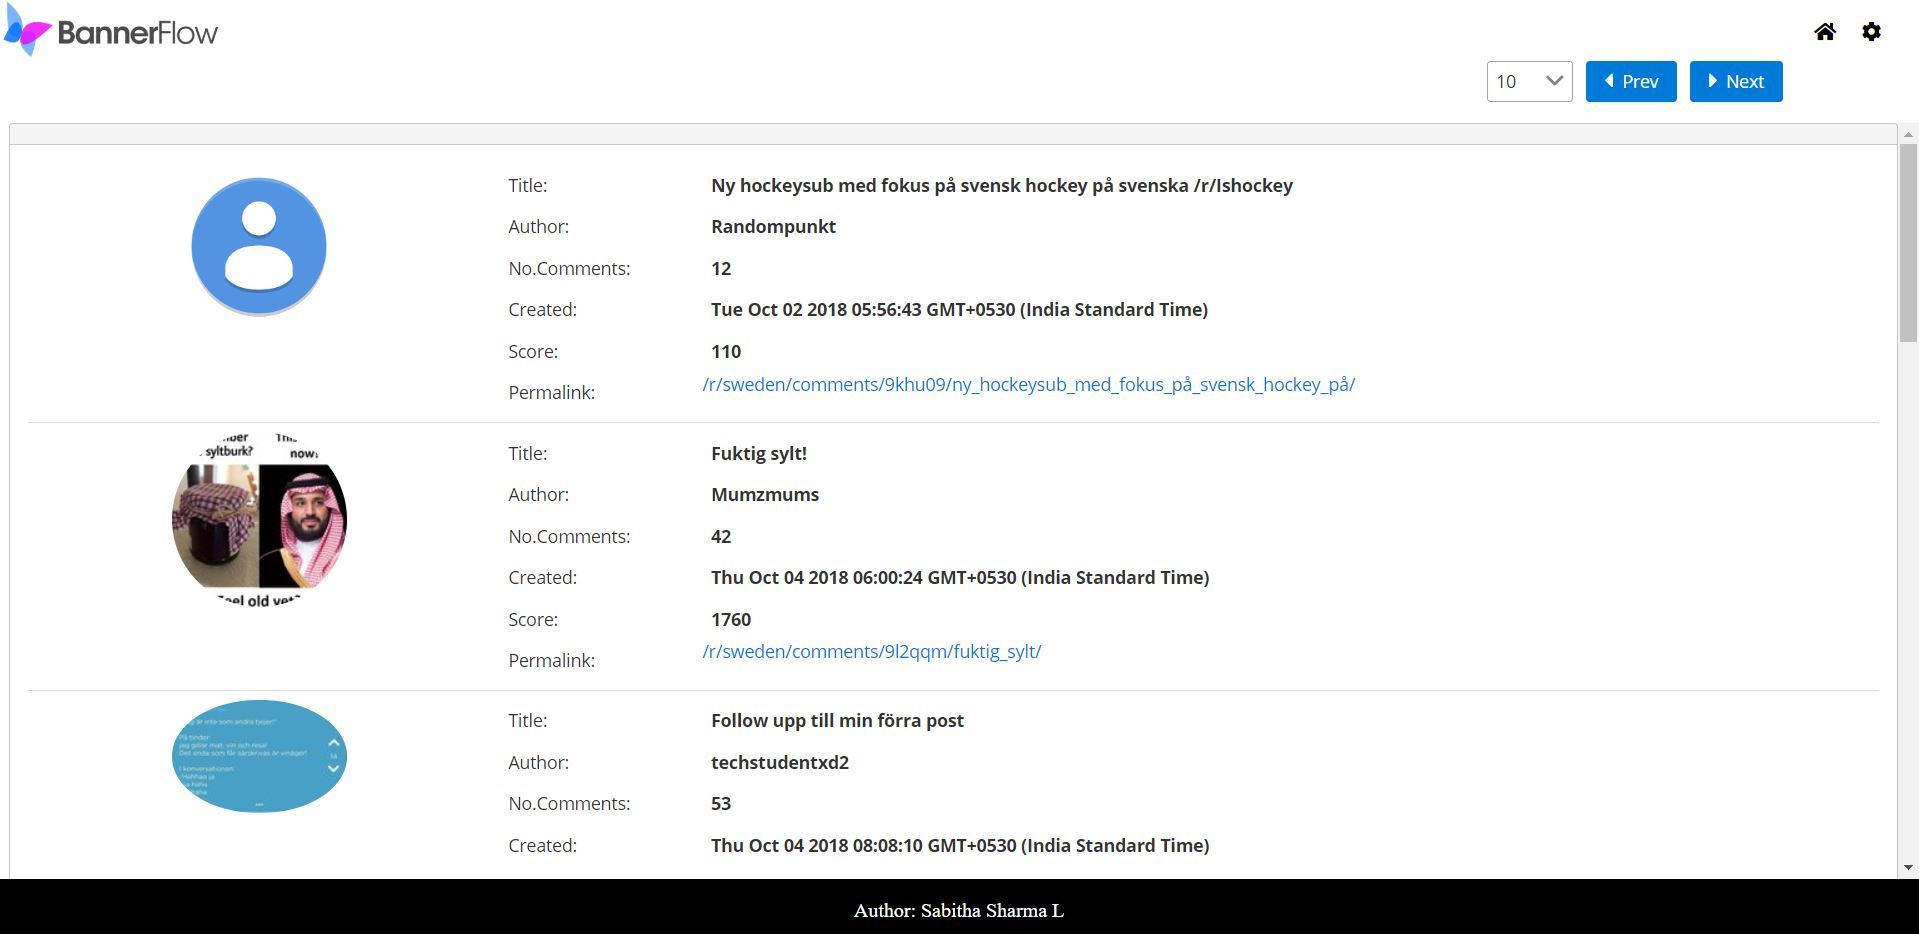
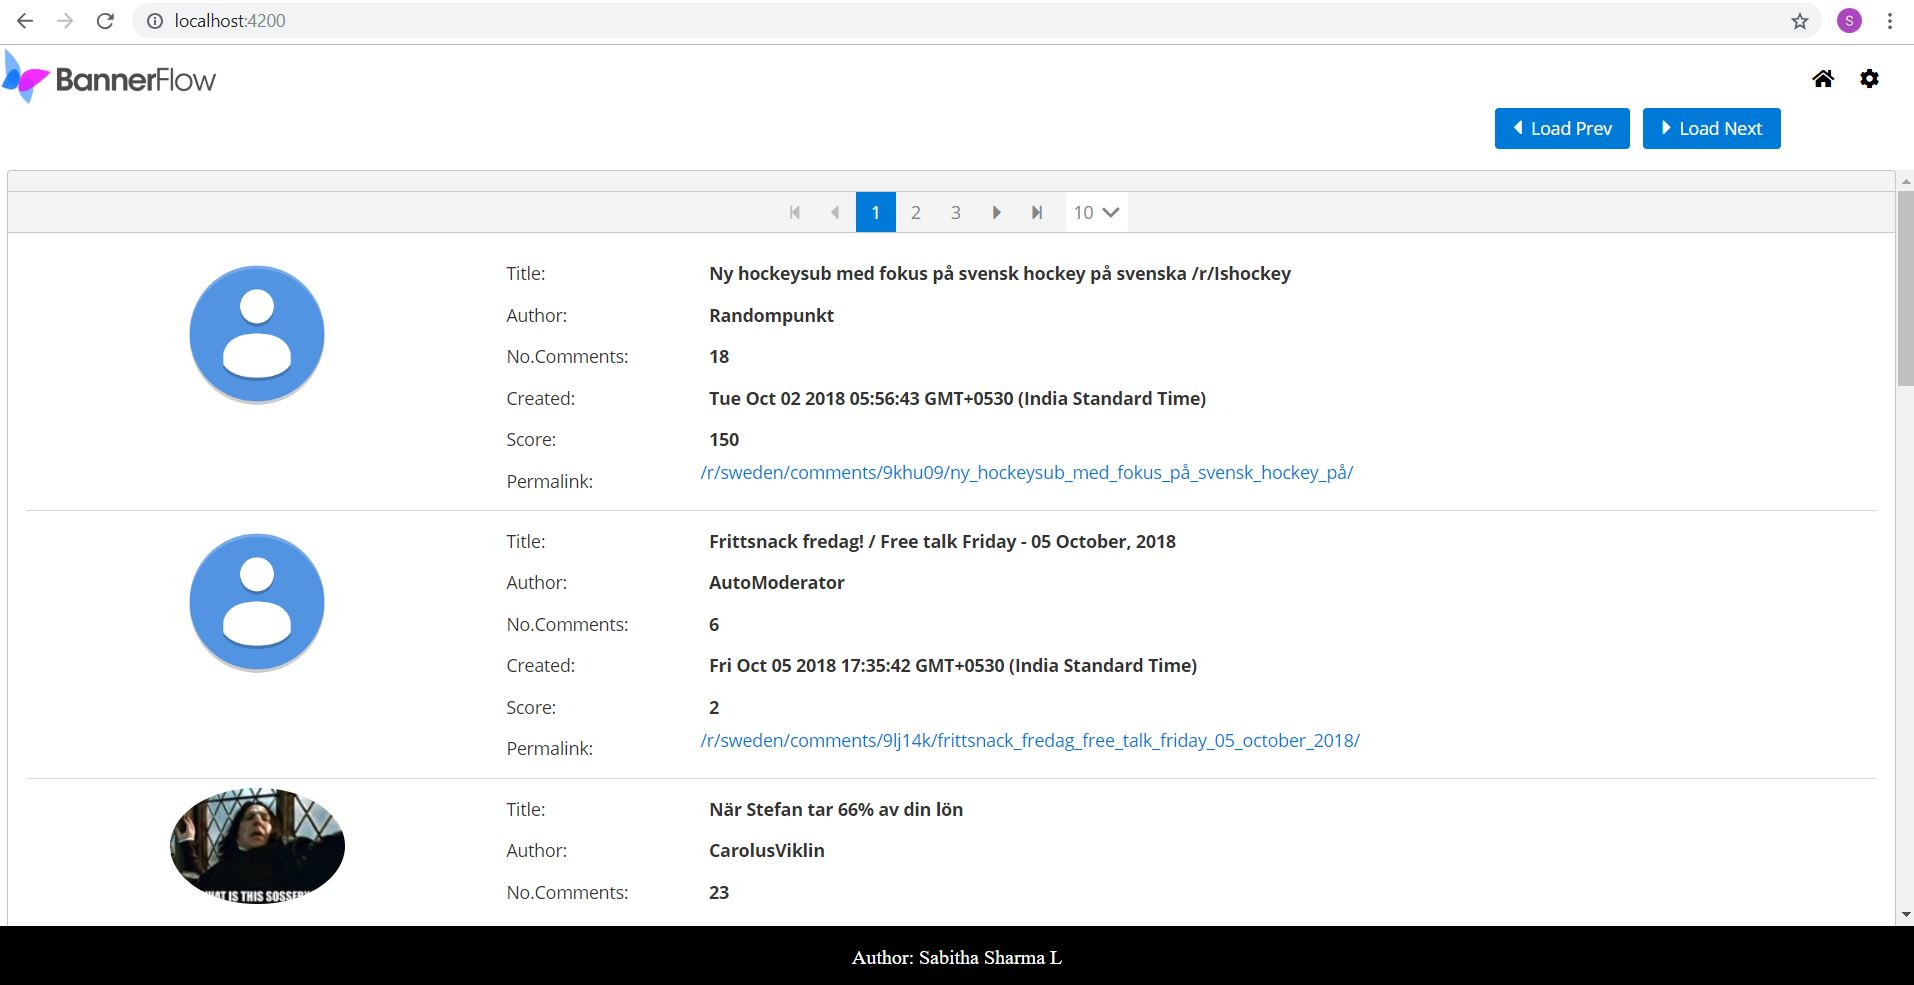
changing the alignment in paginationa

diff --git a/src/app/components/feeds/feeds.component.ts b/src/app/components/feeds/feeds.component.ts
@@ -19,13 +19,7 @@ export class FeedsComponent implements OnInit {
   lastFeedId;
   firstFeedId;
   selectedNumber = { name: this.ROW_LIMIT };
-  previousNumber = this.selectedNumber.name;
-  previousFeed;
-  pageNumbers = [
-    { name: '5' },
-    { name: '10' },
-    { name: '25' }
-  ];
+  MAX_DATA = 25;
   constructor(private _ifeed: FeedsService) {
   }
 
@@ -41,23 +35,11 @@ export class FeedsComponent implements OnInit {
   }
 
   /**
-   * @method onRowUpdate
-   * @description triggered when no of rows in a page changes
-   */
-  private onRowUpdate = (event: any): void => {
-
-    this._ifeed.getAllFeed()
-      .subscribe(feeds => {
-        this.updateFeedsData(feeds);
-      }); // refetches the data when toggled the number of rows
-  }
-
-  /**
    * @method loadPrev
    * @description load previous items
    */
   private loadPrev = (): void => {
-    this._ifeed.getPrevFeeds(this.selectedNumber.name, this.firstFeedId)
+    this._ifeed.getPrevFeeds(this.MAX_DATA, this.firstFeedId)
       .subscribe(feeds => {
         if (feeds.data.dist === 0 && feeds.data.children.length === 0) {
           this.clearFeedsData();
@@ -72,7 +54,7 @@ export class FeedsComponent implements OnInit {
    * @description load next items
    */
   private loadNext = (): void => {
-    this._ifeed.getNextFeeds(this.selectedNumber.name, this.lastFeedId)
+    this._ifeed.getNextFeeds(this.MAX_DATA, this.lastFeedId)
       .subscribe(feeds => {
         this.updateFeedsData(feeds);
       });
@@ -83,14 +65,10 @@ export class FeedsComponent implements OnInit {
    * @description updates the feed list
    */
   private updateFeedsData = (feeds: any): void => {
-    this.previousFeed = this.ifeeds;
-    if (feeds.data.children.length > this.selectedNumber.name) {
-      this.ifeeds = feeds.data.children.splice(0, this.selectedNumber.name);
+    if (feeds.data.children.length > this.MAX_DATA) {
+      this.ifeeds = feeds.data.children.slice(0, this.MAX_DATA);
     } else {
       this.ifeeds = feeds.data.children;
-    }
-    if (!this.previousFeed) {
-      this.previousFeed = this.ifeeds;
     }
     this.lastFeedId = this.ifeeds[this.ifeeds.length - 1].data.name;
     this.firstFeedId = this.ifeeds[0].data.name;

diff --git a/src/app/components/feeds/feeds.component.html b/src/app/components/feeds/feeds.component.html
@@ -1,20 +1,15 @@
 <div class = "paginationArea">
     <div class = "paginatorButtons">
-            <p-button icon="pi pi-caret-left" label="Prev" (click) = "loadPrev()"></p-button>
-            <p-button icon="pi pi-caret-right" label="Next" (click) = "loadNext()"></p-button>
+            <p-button icon="pi pi-caret-left" label="Load Prev" (click) = "loadPrev()"></p-button>
+            <p-button icon="pi pi-caret-right" label="Load Next" (click) = "loadNext()"></p-button>
     </div>
-    <p-dropdown [options]="pageNumbers" (onChange) = "onRowUpdate($event)" [(ngModel)]="selectedNumber" optionLabel="name" [showClear]="false"></p-dropdown>
 </div>
 <div class="contentsArea">
     <p-sidebar *ngIf="selectedFeed" styleClass="ui-sidebar-lg" position="bottom" [(visible)]="SidebarDisplay" (onHide)="selectedFeed = false">
         <app-comments [selectedFeed]="selectedFeed" [commentsLink]="selectedFeed.data.permalink"> </app-comments>
     </p-sidebar>
-    <!--p-paginator [rows]="10" totalRecords= {{ifeedsFull.length}} [rowsPerPageOptions]="[5,10,25]" (onPageChange)="paginate($event)"></p-paginator-->
-    <!--p-dataView #dv [value]="ifeeds" [paginator]="true" [rows]="10"  [rowsPerPageOptions]="[5,10,25]" paginatorPosition="top"-->
+    <p-dataView #dv [value]="ifeeds" [paginator]="true" [rows]="10"  [rowsPerPageOptions]="[5,10,25]" paginatorPosition="top">
     
-    
-    
-    <p-dataView #dv [value]="ifeeds">
         <ng-template let-feed pTemplate="listItem">
             <div class="ui-g feedList" (click)="updateSelectedFeed(feed); SidebarDisplay = true">
                 <div class="ui-g-12 ui-md-3" style="text-align:center">

diff --git a/src/app/app.module.ts b/src/app/app.module.ts
@@ -15,6 +15,7 @@ import { FormsModule } from '@angular/forms';
 import { SidebarModule } from 'primeng/sidebar';
 import { CardModule } from 'primeng/card';
 import { ButtonModule } from 'primeng/button';
+import { PaginatorModule } from 'primeng/paginator';
 
 
 
@@ -45,7 +46,8 @@ import { CommentDetailsComponent } from './components/comments/comment-details/c
     FormsModule,
     SidebarModule,
     CardModule,
-    ButtonModule
+    ButtonModule,
+    PaginatorModule
   ],
   providers: [],
   bootstrap: [AppComponent]
